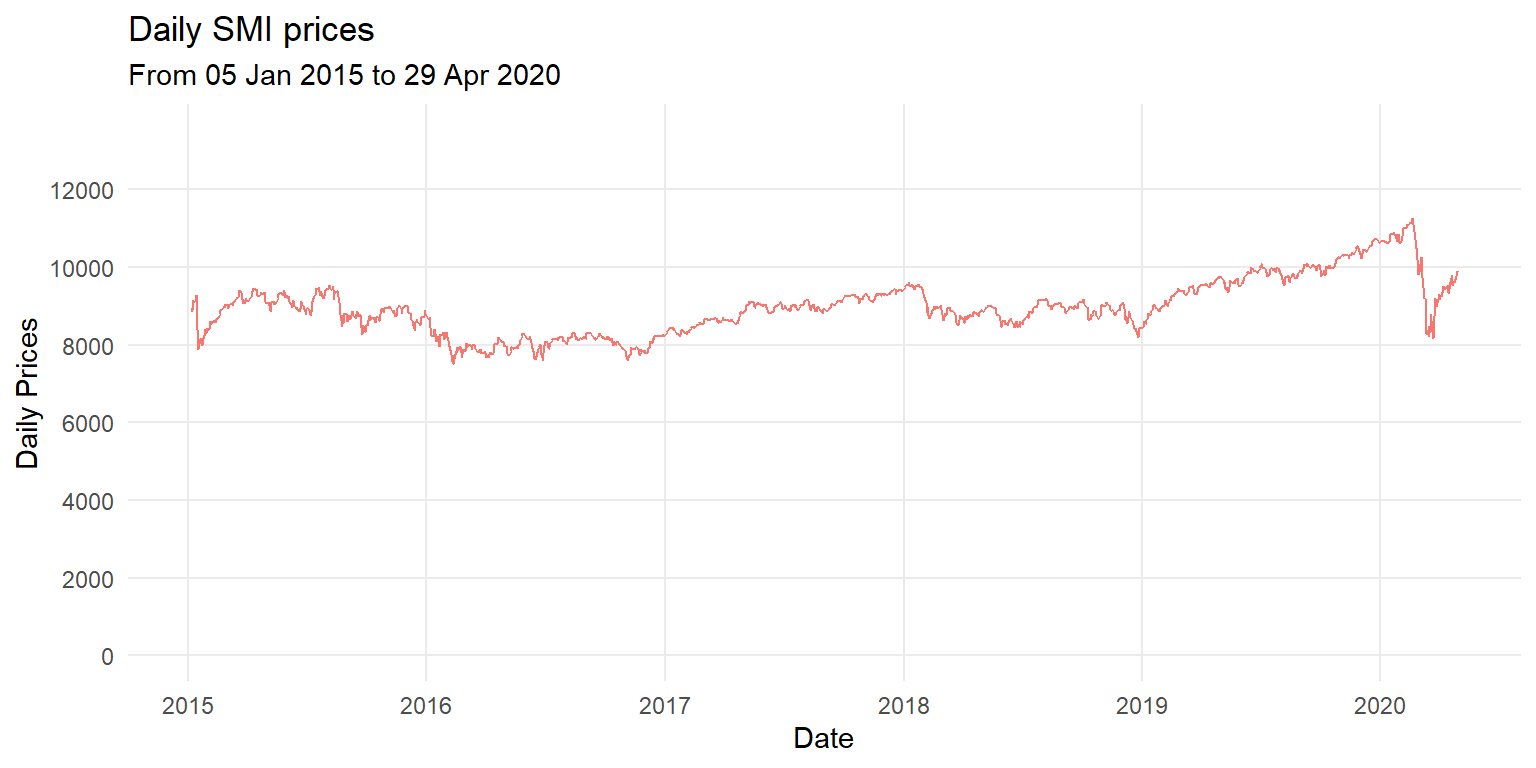
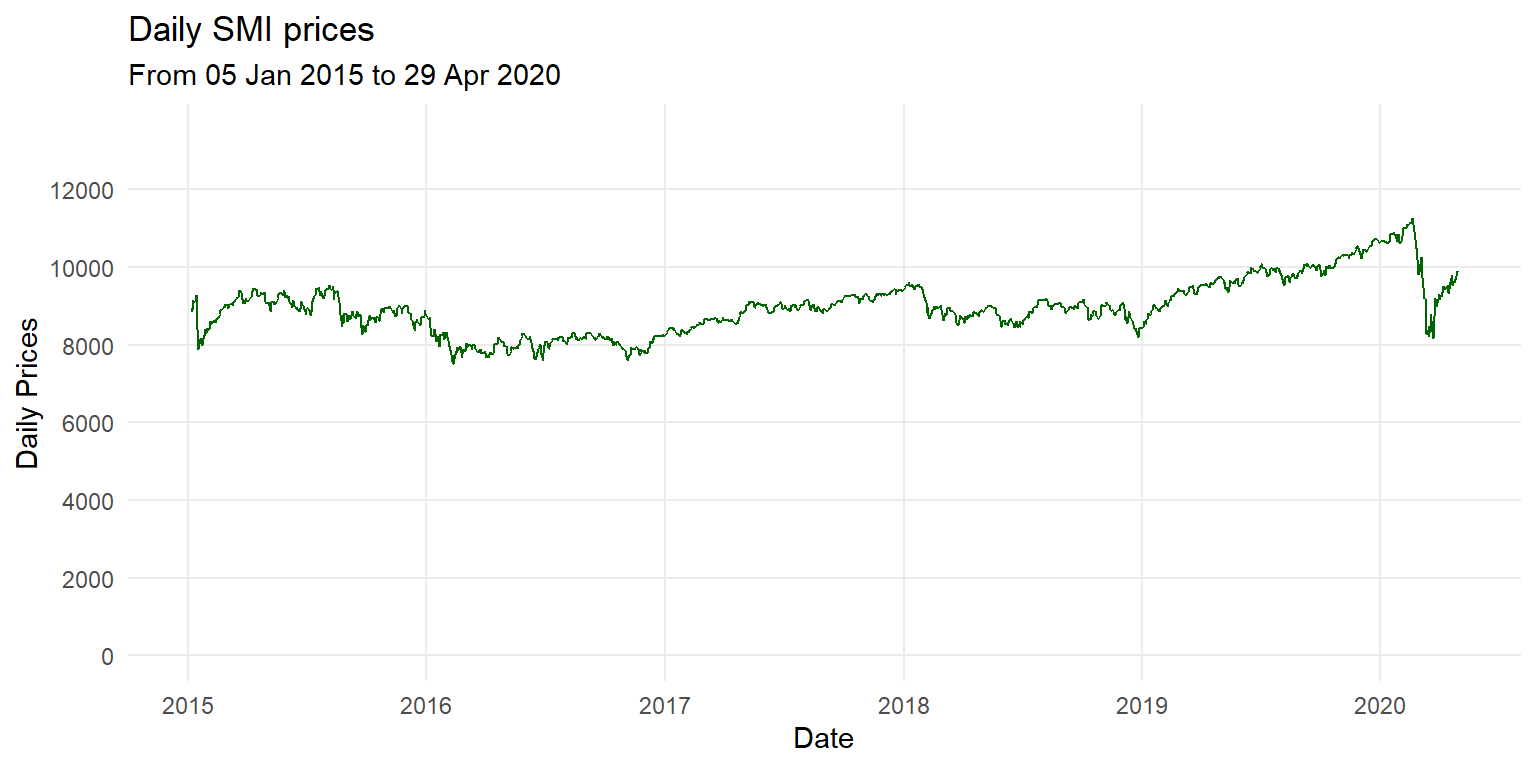
Added hline to plot function. Fixes #3

diff --git a/Report_1/README.html b/Report_1/README.html
@@ -147,11 +147,9 @@ $ price &lt;dbl&gt; 8938.85, 8874.47, 8900.83, 9139.69, 9105.70, 9152.97, 9285.6
 </div>
 <p>The columns are now in a format we can use. To check missing values, we can use the {visdat} package:</p>
 <div class="cell">
-<div class="sourceCode cell-code" id="cb5"><pre class="sourceCode r code-with-copy"><code class="sourceCode r"><span id="cb5-1"><a href="#cb5-1" aria-hidden="true" tabindex="-1"></a><span class="fu">library</span>(visdat)</span></code><button title="Copy to Clipboard" class="code-copy-button"><i class="bi"></i></button></pre></div>
-<div class="cell-output cell-output-stderr">
-<pre><code>Warning: Paket 'visdat' wurde unter R Version 4.3.3 erstellt</code></pre>
-</div>
-<div class="sourceCode cell-code" id="cb7"><pre class="sourceCode r code-with-copy"><code class="sourceCode r"><span id="cb7-1"><a href="#cb7-1" aria-hidden="true" tabindex="-1"></a>visdat<span class="sc">::</span><span class="fu">vis_dat</span>(df_smi)</span></code><button title="Copy to Clipboard" class="code-copy-button"><i class="bi"></i></button></pre></div>
+<div class="sourceCode cell-code" id="cb5"><pre class="sourceCode r code-with-copy"><code class="sourceCode r"><span id="cb5-1"><a href="#cb5-1" aria-hidden="true" tabindex="-1"></a><span class="fu">library</span>(visdat)</span>
+<span id="cb5-2"><a href="#cb5-2" aria-hidden="true" tabindex="-1"></a></span>
+<span id="cb5-3"><a href="#cb5-3" aria-hidden="true" tabindex="-1"></a>visdat<span class="sc">::</span><span class="fu">vis_dat</span>(df_smi)</span></code><button title="Copy to Clipboard" class="code-copy-button"><i class="bi"></i></button></pre></div>
 <div class="cell-output-display">
 <p><img src="README_files/figure-html/unnamed-chunk-3-1.png" class="img-fluid" width="768"></p>
 </div>
@@ -161,45 +159,47 @@ $ price &lt;dbl&gt; 8938.85, 8874.47, 8900.83, 9139.69, 9105.70, 9152.97, 9285.6
 <section id="task-1-generating-a-lineplot" class="level2">
 <h2 class="anchored" data-anchor-id="task-1-generating-a-lineplot">Task 1: Generating a lineplot</h2>
 <div class="cell">
-<div class="sourceCode cell-code" id="cb8"><pre class="sourceCode r code-with-copy"><code class="sourceCode r"><span id="cb8-1"><a href="#cb8-1" aria-hidden="true" tabindex="-1"></a><span class="fu">library</span>(ggplot2)</span></code><button title="Copy to Clipboard" class="code-copy-button"><i class="bi"></i></button></pre></div>
-<div class="cell-output cell-output-stderr">
-<pre><code>Warning: Paket 'ggplot2' wurde unter R Version 4.3.3 erstellt</code></pre>
-</div>
-<div class="sourceCode cell-code" id="cb10"><pre class="sourceCode r code-with-copy"><code class="sourceCode r"><span id="cb10-1"><a href="#cb10-1" aria-hidden="true" tabindex="-1"></a>plot_smi_line <span class="ot">&lt;-</span> <span class="cf">function</span>(df, <span class="at">date_breaks=</span><span class="st">"1 year"</span>, <span class="at">angle =</span> <span class="cn">FALSE</span>) {</span>
-<span id="cb10-2"><a href="#cb10-2" aria-hidden="true" tabindex="-1"></a>  checkmate<span class="sc">::</span><span class="fu">assert_data_frame</span>(df)</span>
-<span id="cb10-3"><a href="#cb10-3" aria-hidden="true" tabindex="-1"></a>  checkmate<span class="sc">::</span><span class="fu">assert_character</span>(date_breaks)</span>
-<span id="cb10-4"><a href="#cb10-4" aria-hidden="true" tabindex="-1"></a>  checkmate<span class="sc">::</span><span class="fu">assert_logical</span>(angle)</span>
-<span id="cb10-5"><a href="#cb10-5" aria-hidden="true" tabindex="-1"></a>  </span>
-<span id="cb10-6"><a href="#cb10-6" aria-hidden="true" tabindex="-1"></a>  date_from <span class="ot">=</span> <span class="fu">format</span>(<span class="fu">min</span>(df<span class="sc">$</span>date), <span class="st">"%d %b %Y"</span>)</span>
-<span id="cb10-7"><a href="#cb10-7" aria-hidden="true" tabindex="-1"></a>  date_to <span class="ot">=</span> <span class="fu">format</span>(<span class="fu">max</span>(df<span class="sc">$</span>date), <span class="st">"%d %b %Y"</span>)</span>
-<span id="cb10-8"><a href="#cb10-8" aria-hidden="true" tabindex="-1"></a>  </span>
-<span id="cb10-9"><a href="#cb10-9" aria-hidden="true" tabindex="-1"></a>  p <span class="ot">&lt;-</span> df <span class="sc">|&gt;</span></span>
-<span id="cb10-10"><a href="#cb10-10" aria-hidden="true" tabindex="-1"></a>    <span class="fu">ggplot</span>(<span class="fu">aes</span>(<span class="at">x =</span> date, <span class="at">y =</span> price)) <span class="sc">+</span></span>
-<span id="cb10-11"><a href="#cb10-11" aria-hidden="true" tabindex="-1"></a>    <span class="fu">geom_line</span>(<span class="fu">aes</span>(<span class="at">color =</span> <span class="st">"#eb34e5"</span>)) <span class="sc">+</span></span>
-<span id="cb10-12"><a href="#cb10-12" aria-hidden="true" tabindex="-1"></a>    <span class="fu">labs</span>(</span>
-<span id="cb10-13"><a href="#cb10-13" aria-hidden="true" tabindex="-1"></a>      <span class="at">title =</span> <span class="st">"Daily SMI prices"</span>,</span>
-<span id="cb10-14"><a href="#cb10-14" aria-hidden="true" tabindex="-1"></a>      <span class="at">subtitle =</span> <span class="fu">paste0</span>(<span class="st">"From "</span>, date_from, <span class="st">" to "</span>, date_to),</span>
-<span id="cb10-15"><a href="#cb10-15" aria-hidden="true" tabindex="-1"></a>      <span class="at">x =</span> <span class="st">"Date"</span>,</span>
-<span id="cb10-16"><a href="#cb10-16" aria-hidden="true" tabindex="-1"></a>      <span class="at">y =</span> <span class="st">"Daily Prices"</span></span>
-<span id="cb10-17"><a href="#cb10-17" aria-hidden="true" tabindex="-1"></a>    ) <span class="sc">+</span></span>
-<span id="cb10-18"><a href="#cb10-18" aria-hidden="true" tabindex="-1"></a>    <span class="fu">theme_minimal</span>() <span class="sc">+</span></span>
-<span id="cb10-19"><a href="#cb10-19" aria-hidden="true" tabindex="-1"></a>    <span class="fu">scale_y_continuous</span>(<span class="at">breaks =</span> <span class="fu">seq</span>(<span class="dv">0</span>, <span class="dv">12000</span>, <span class="dv">2000</span>),</span>
-<span id="cb10-20"><a href="#cb10-20" aria-hidden="true" tabindex="-1"></a>                       <span class="at">limits =</span> <span class="fu">c</span>(<span class="dv">0</span>, <span class="fu">max</span>(df<span class="sc">$</span>price) <span class="sc">*</span> <span class="fl">1.2</span>),</span>
-<span id="cb10-21"><a href="#cb10-21" aria-hidden="true" tabindex="-1"></a>                       <span class="at">minor_breaks =</span> <span class="cn">NULL</span>) <span class="sc">+</span></span>
-<span id="cb10-22"><a href="#cb10-22" aria-hidden="true" tabindex="-1"></a>    <span class="fu">scale_x_date</span>(<span class="at">date_breaks =</span> date_breaks,</span>
-<span id="cb10-23"><a href="#cb10-23" aria-hidden="true" tabindex="-1"></a>                 <span class="at">date_labels =</span> <span class="fu">case_when</span>(</span>
-<span id="cb10-24"><a href="#cb10-24" aria-hidden="true" tabindex="-1"></a>                   date_breaks <span class="sc">==</span> <span class="st">"1 year"</span> <span class="sc">~</span> <span class="st">"%Y"</span>,</span>
-<span id="cb10-25"><a href="#cb10-25" aria-hidden="true" tabindex="-1"></a>                   date_breaks <span class="sc">==</span> <span class="st">"1 month"</span> <span class="sc">~</span> <span class="st">"%b %y"</span></span>
-<span id="cb10-26"><a href="#cb10-26" aria-hidden="true" tabindex="-1"></a>                 ) ,</span>
-<span id="cb10-27"><a href="#cb10-27" aria-hidden="true" tabindex="-1"></a>                 <span class="at">minor_breaks =</span> <span class="cn">NULL</span>) <span class="sc">+</span></span>
-<span id="cb10-28"><a href="#cb10-28" aria-hidden="true" tabindex="-1"></a>    <span class="fu">theme</span>(<span class="at">legend.position =</span> <span class="st">"none"</span>)</span>
-<span id="cb10-29"><a href="#cb10-29" aria-hidden="true" tabindex="-1"></a>    <span class="cf">if</span> (angle) {</span>
-<span id="cb10-30"><a href="#cb10-30" aria-hidden="true" tabindex="-1"></a>      p <span class="ot">=</span> p <span class="sc">+</span> <span class="fu">theme</span>(<span class="at">axis.text.x =</span> <span class="fu">element_text</span>(<span class="at">angle =</span> <span class="dv">45</span>, <span class="at">hjust =</span> <span class="dv">1</span>))</span>
-<span id="cb10-31"><a href="#cb10-31" aria-hidden="true" tabindex="-1"></a>    }</span>
-<span id="cb10-32"><a href="#cb10-32" aria-hidden="true" tabindex="-1"></a>  <span class="fu">return</span>(p)</span>
-<span id="cb10-33"><a href="#cb10-33" aria-hidden="true" tabindex="-1"></a>}</span>
-<span id="cb10-34"><a href="#cb10-34" aria-hidden="true" tabindex="-1"></a></span>
-<span id="cb10-35"><a href="#cb10-35" aria-hidden="true" tabindex="-1"></a><span class="fu">plot_smi_line</span>(df_smi)</span></code><button title="Copy to Clipboard" class="code-copy-button"><i class="bi"></i></button></pre></div>
+<div class="sourceCode cell-code" id="cb6"><pre class="sourceCode r code-with-copy"><code class="sourceCode r"><span id="cb6-1"><a href="#cb6-1" aria-hidden="true" tabindex="-1"></a><span class="fu">library</span>(ggplot2)</span>
+<span id="cb6-2"><a href="#cb6-2" aria-hidden="true" tabindex="-1"></a></span>
+<span id="cb6-3"><a href="#cb6-3" aria-hidden="true" tabindex="-1"></a>plot_smi_line <span class="ot">&lt;-</span> <span class="cf">function</span>(df, <span class="at">date_breaks=</span><span class="st">"1 year"</span>, <span class="at">angle =</span> <span class="cn">FALSE</span>, <span class="at">hline =</span> <span class="cn">FALSE</span>) {</span>
+<span id="cb6-4"><a href="#cb6-4" aria-hidden="true" tabindex="-1"></a>  checkmate<span class="sc">::</span><span class="fu">assert_data_frame</span>(df)</span>
+<span id="cb6-5"><a href="#cb6-5" aria-hidden="true" tabindex="-1"></a>  checkmate<span class="sc">::</span><span class="fu">assert_character</span>(date_breaks)</span>
+<span id="cb6-6"><a href="#cb6-6" aria-hidden="true" tabindex="-1"></a>  checkmate<span class="sc">::</span><span class="fu">assert_logical</span>(angle)</span>
+<span id="cb6-7"><a href="#cb6-7" aria-hidden="true" tabindex="-1"></a>  checkmate<span class="sc">::</span><span class="fu">assert_logical</span>(hline)</span>
+<span id="cb6-8"><a href="#cb6-8" aria-hidden="true" tabindex="-1"></a>  </span>
+<span id="cb6-9"><a href="#cb6-9" aria-hidden="true" tabindex="-1"></a>  date_from <span class="ot">=</span> <span class="fu">format</span>(<span class="fu">min</span>(df<span class="sc">$</span>date), <span class="st">"%d %b %Y"</span>)</span>
+<span id="cb6-10"><a href="#cb6-10" aria-hidden="true" tabindex="-1"></a>  date_to <span class="ot">=</span> <span class="fu">format</span>(<span class="fu">max</span>(df<span class="sc">$</span>date), <span class="st">"%d %b %Y"</span>)</span>
+<span id="cb6-11"><a href="#cb6-11" aria-hidden="true" tabindex="-1"></a>  </span>
+<span id="cb6-12"><a href="#cb6-12" aria-hidden="true" tabindex="-1"></a>  p <span class="ot">&lt;-</span> df <span class="sc">|&gt;</span></span>
+<span id="cb6-13"><a href="#cb6-13" aria-hidden="true" tabindex="-1"></a>    <span class="fu">ggplot</span>(<span class="fu">aes</span>(<span class="at">x =</span> date, <span class="at">y =</span> price)) <span class="sc">+</span></span>
+<span id="cb6-14"><a href="#cb6-14" aria-hidden="true" tabindex="-1"></a>    <span class="fu">geom_line</span>(<span class="at">color =</span> <span class="st">"darkgreen"</span>) <span class="sc">+</span></span>
+<span id="cb6-15"><a href="#cb6-15" aria-hidden="true" tabindex="-1"></a>    <span class="fu">labs</span>(</span>
+<span id="cb6-16"><a href="#cb6-16" aria-hidden="true" tabindex="-1"></a>      <span class="at">title =</span> <span class="st">"Daily SMI prices"</span>,</span>
+<span id="cb6-17"><a href="#cb6-17" aria-hidden="true" tabindex="-1"></a>      <span class="at">subtitle =</span> <span class="fu">paste0</span>(<span class="st">"From "</span>, date_from, <span class="st">" to "</span>, date_to),</span>
+<span id="cb6-18"><a href="#cb6-18" aria-hidden="true" tabindex="-1"></a>      <span class="at">x =</span> <span class="st">"Date"</span>,</span>
+<span id="cb6-19"><a href="#cb6-19" aria-hidden="true" tabindex="-1"></a>      <span class="at">y =</span> <span class="st">"Daily Prices"</span></span>
+<span id="cb6-20"><a href="#cb6-20" aria-hidden="true" tabindex="-1"></a>    ) <span class="sc">+</span></span>
+<span id="cb6-21"><a href="#cb6-21" aria-hidden="true" tabindex="-1"></a>    <span class="fu">theme_minimal</span>() <span class="sc">+</span></span>
+<span id="cb6-22"><a href="#cb6-22" aria-hidden="true" tabindex="-1"></a>    <span class="fu">scale_y_continuous</span>(<span class="at">breaks =</span> <span class="fu">seq</span>(<span class="dv">0</span>, <span class="dv">12000</span>, <span class="dv">2000</span>),</span>
+<span id="cb6-23"><a href="#cb6-23" aria-hidden="true" tabindex="-1"></a>                       <span class="at">limits =</span> <span class="fu">c</span>(<span class="dv">0</span>, <span class="fu">max</span>(df<span class="sc">$</span>price) <span class="sc">*</span> <span class="fl">1.2</span>),</span>
+<span id="cb6-24"><a href="#cb6-24" aria-hidden="true" tabindex="-1"></a>                       <span class="at">minor_breaks =</span> <span class="cn">NULL</span>) <span class="sc">+</span></span>
+<span id="cb6-25"><a href="#cb6-25" aria-hidden="true" tabindex="-1"></a>    <span class="fu">scale_x_date</span>(<span class="at">date_breaks =</span> date_breaks,</span>
+<span id="cb6-26"><a href="#cb6-26" aria-hidden="true" tabindex="-1"></a>                 <span class="at">date_labels =</span> <span class="fu">case_when</span>(</span>
+<span id="cb6-27"><a href="#cb6-27" aria-hidden="true" tabindex="-1"></a>                   date_breaks <span class="sc">==</span> <span class="st">"1 year"</span> <span class="sc">~</span> <span class="st">"%Y"</span>,</span>
+<span id="cb6-28"><a href="#cb6-28" aria-hidden="true" tabindex="-1"></a>                   date_breaks <span class="sc">==</span> <span class="st">"1 month"</span> <span class="sc">~</span> <span class="st">"%b %y"</span></span>
+<span id="cb6-29"><a href="#cb6-29" aria-hidden="true" tabindex="-1"></a>                 ) ,</span>
+<span id="cb6-30"><a href="#cb6-30" aria-hidden="true" tabindex="-1"></a>                 <span class="at">minor_breaks =</span> <span class="cn">NULL</span>) <span class="sc">+</span></span>
+<span id="cb6-31"><a href="#cb6-31" aria-hidden="true" tabindex="-1"></a>    <span class="fu">theme</span>(<span class="at">legend.position =</span> <span class="st">"none"</span>)</span>
+<span id="cb6-32"><a href="#cb6-32" aria-hidden="true" tabindex="-1"></a>    <span class="cf">if</span> (angle) {</span>
+<span id="cb6-33"><a href="#cb6-33" aria-hidden="true" tabindex="-1"></a>      p <span class="ot">=</span> p <span class="sc">+</span> <span class="fu">theme</span>(<span class="at">axis.text.x =</span> <span class="fu">element_text</span>(<span class="at">angle =</span> <span class="dv">45</span>, <span class="at">hjust =</span> <span class="dv">1</span>))</span>
+<span id="cb6-34"><a href="#cb6-34" aria-hidden="true" tabindex="-1"></a>    }</span>
+<span id="cb6-35"><a href="#cb6-35" aria-hidden="true" tabindex="-1"></a>    <span class="cf">if</span> (hline) {</span>
+<span id="cb6-36"><a href="#cb6-36" aria-hidden="true" tabindex="-1"></a>      p <span class="ot">=</span> p <span class="sc">+</span> <span class="fu">geom_hline</span>(<span class="at">yintercept =</span> <span class="dv">8900</span>, <span class="at">color =</span> <span class="st">"red"</span>, <span class="at">size =</span> <span class="dv">1</span>)</span>
+<span id="cb6-37"><a href="#cb6-37" aria-hidden="true" tabindex="-1"></a>    }</span>
+<span id="cb6-38"><a href="#cb6-38" aria-hidden="true" tabindex="-1"></a>  <span class="fu">return</span>(p)</span>
+<span id="cb6-39"><a href="#cb6-39" aria-hidden="true" tabindex="-1"></a>}</span>
+<span id="cb6-40"><a href="#cb6-40" aria-hidden="true" tabindex="-1"></a></span>
+<span id="cb6-41"><a href="#cb6-41" aria-hidden="true" tabindex="-1"></a><span class="fu">plot_smi_line</span>(df_smi)</span></code><button title="Copy to Clipboard" class="code-copy-button"><i class="bi"></i></button></pre></div>
 <div class="cell-output-display">
 <p><img src="README_files/figure-html/unnamed-chunk-4-1.png" class="img-fluid" width="768"></p>
 </div>
@@ -208,10 +208,23 @@ $ price &lt;dbl&gt; 8938.85, 8874.47, 8900.83, 9139.69, 9105.70, 9152.97, 9285.6
 <section id="task-2-generating-a-lineplot-from-2019-on" class="level2">
 <h2 class="anchored" data-anchor-id="task-2-generating-a-lineplot-from-2019-on">Task 2: Generating a lineplot from 2019 on</h2>
 <div class="cell">
-<div class="sourceCode cell-code" id="cb11"><pre class="sourceCode r code-with-copy"><code class="sourceCode r"><span id="cb11-1"><a href="#cb11-1" aria-hidden="true" tabindex="-1"></a>df_smi_2019 <span class="ot">&lt;-</span> df_smi <span class="sc">|&gt;</span> <span class="fu">filter</span>(date <span class="sc">&gt;</span> <span class="st">"2018-12-31"</span>)</span>
-<span id="cb11-2"><a href="#cb11-2" aria-hidden="true" tabindex="-1"></a><span class="fu">plot_smi_line</span>(df_smi_2019, <span class="at">date_breaks =</span> <span class="st">"1 month"</span>, <span class="at">angle =</span> <span class="cn">TRUE</span>)</span></code><button title="Copy to Clipboard" class="code-copy-button"><i class="bi"></i></button></pre></div>
+<div class="sourceCode cell-code" id="cb7"><pre class="sourceCode r code-with-copy"><code class="sourceCode r"><span id="cb7-1"><a href="#cb7-1" aria-hidden="true" tabindex="-1"></a>df_smi_2019 <span class="ot">&lt;-</span> df_smi <span class="sc">|&gt;</span> <span class="fu">filter</span>(date <span class="sc">&gt;</span> <span class="st">"2018-12-31"</span>)</span>
+<span id="cb7-2"><a href="#cb7-2" aria-hidden="true" tabindex="-1"></a><span class="fu">plot_smi_line</span>(df_smi_2019, <span class="at">date_breaks =</span> <span class="st">"1 month"</span>, <span class="at">angle =</span> <span class="cn">TRUE</span>)</span></code><button title="Copy to Clipboard" class="code-copy-button"><i class="bi"></i></button></pre></div>
 <div class="cell-output-display">
 <p><img src="README_files/figure-html/unnamed-chunk-5-1.png" class="img-fluid" width="768"></p>
+</div>
+</div>
+</section>
+<section id="task-3-adding-a-horizontal-line-at-8900.-" class="level2">
+<h2 class="anchored" data-anchor-id="task-3-adding-a-horizontal-line-at-8900.-">Task 3: Adding a horizontal line at 8900.-</h2>
+<div class="cell">
+<div class="sourceCode cell-code" id="cb8"><pre class="sourceCode r code-with-copy"><code class="sourceCode r"><span id="cb8-1"><a href="#cb8-1" aria-hidden="true" tabindex="-1"></a><span class="fu">plot_smi_line</span>(df_smi_2019, <span class="at">date_breaks =</span> <span class="st">"1 month"</span>, <span class="at">angle =</span> <span class="cn">TRUE</span>, <span class="at">hline =</span> <span class="cn">TRUE</span>)</span></code><button title="Copy to Clipboard" class="code-copy-button"><i class="bi"></i></button></pre></div>
+<div class="cell-output cell-output-stderr">
+<pre><code>Warning: Using `size` aesthetic for lines was deprecated in ggplot2 3.4.0.
+ℹ Please use `linewidth` instead.</code></pre>
+</div>
+<div class="cell-output-display">
+<p><img src="README_files/figure-html/unnamed-chunk-6-1.png" class="img-fluid" width="768"></p>
 </div>
 </div>
 </section>
